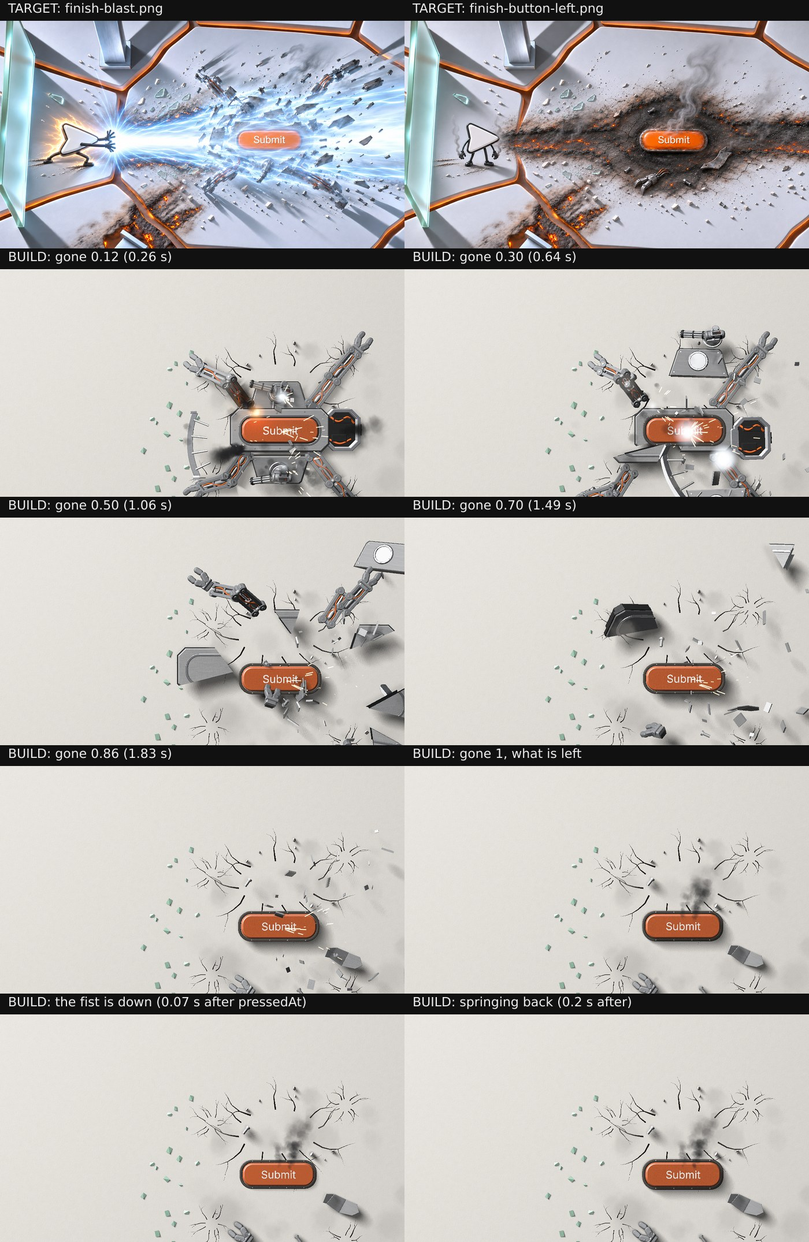
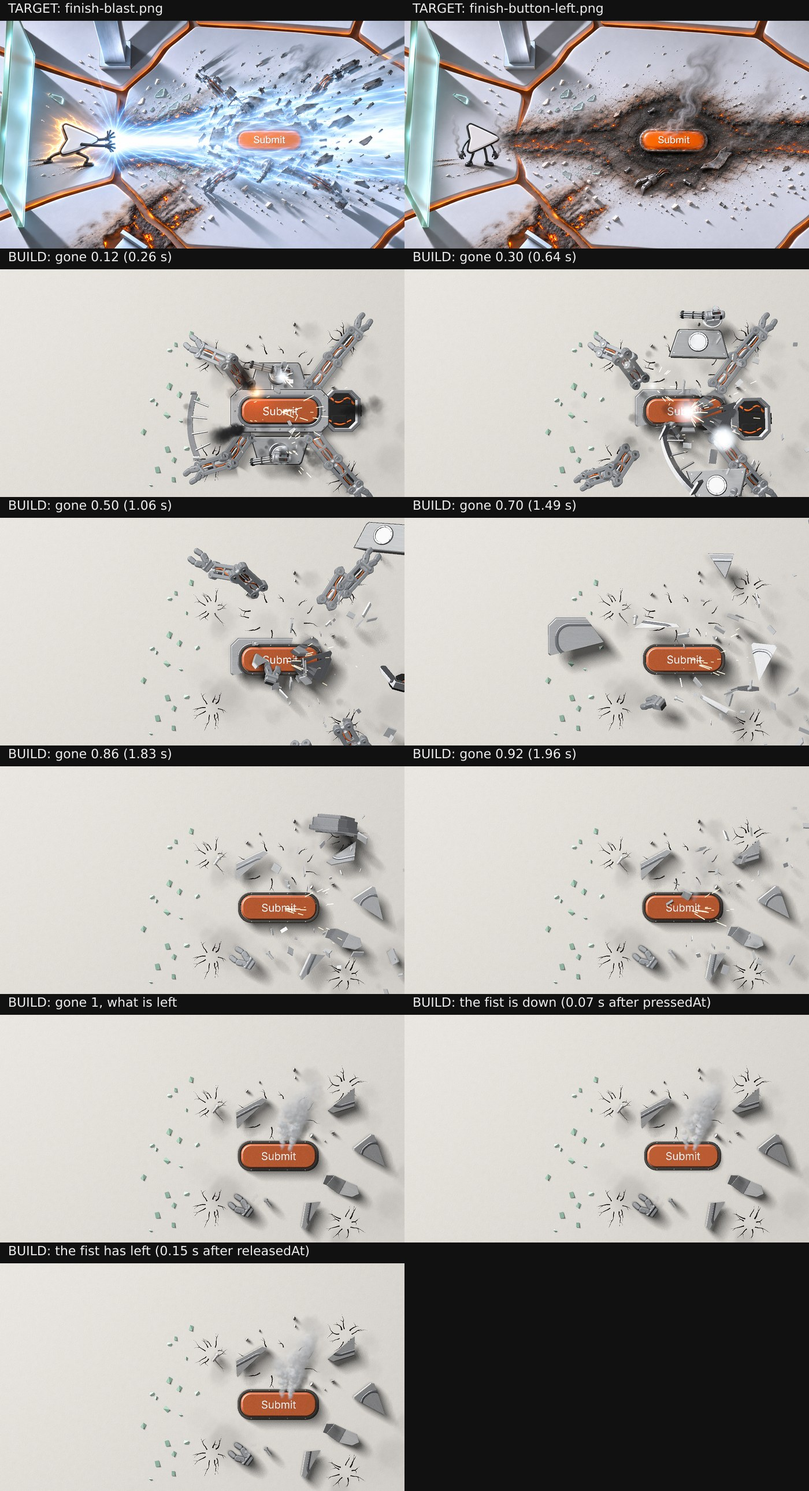
Boss look: four torn plates left round the button, pale smoke column, lit undersides in the beam, late hull pieces

diff --git a/src/boss/look1/pose.ts b/src/boss/look1/pose.ts
@@ -47,15 +47,15 @@ export const WALK = { pitch: 40, band: 0.14, lift: 38, bob: 5 }
 // The fall when he is beaten, as shares of boss.beaten: the cannon leaves, the glass bursts, the body drops on its belly.
 export const FALL = { off: [0, 0.4], glass: [0.05, 0.3], drop: [0.3, 0.7] } as const
 // The finishing blast, as shares of boss.gone: when each part leaves, when the hull comes apart, when the bare button comes down on the ground, when the last pieces land.
-export const GONE = { shield: [0.02, 0.6], wings: [[0.08, 0.7], [0.14, 0.76]], guns: [[0.05, 0.65], [0.1, 0.7]], legs: [[0.2, 0.8], [0.26, 0.86], [0.3, 0.9], [0.36, 0.96]], bay: [0.22, 0.8], hull: [0.28, 0.98], plate: [0.03, 0.5], button: [0.5, 0.9], left: [0.4, 0.92], land: [[0.44, 0.92], [0.5, 0.93], [0.56, 0.95]] } as const
+export const GONE = { shield: [0.02, 0.6], wings: [[0.08, 0.7], [0.14, 0.76]], guns: [[0.05, 0.65], [0.1, 0.7]], legs: [[0.2, 0.8], [0.26, 0.86], [0.3, 0.9], [0.36, 0.96]], bay: [0.22, 0.8], hull: [0.28, 0.98], plate: [0.06, 0.34], button: [0.5, 0.9], left: [0.4, 0.92], land: [[0.44, 0.92], [0.5, 0.93], [0.56, 0.95], [0.52, 0.94]] } as const
 // How a piece leaves in the blast, in model units: far down the beam, wide to its own side, up from the ground.
 export const FLY = { far: 2700, wide: 1100, least: 0.6, high: 120, burst: [400, 250] }
-// Where the button lies when all else is gone (the fight's FALLEN), level on the page; and what lies about it, page px from its middle: a claw, a bent plate, two bolts, and three torn pieces of the hull (which piece, where, its turn), `small` of their size.
-export const LEFT = { x: 960, y: 650, slide: [0.02, 0.92], lie: [[-76, 150, 2.5], [150, 72, -0.5], [-78, -104, 0.9], [-24, 116, 2.2]], plates: [[1, 66, -118, 0.5], [3, 214, -34, -0.9], [5, 112, 168, 1.4]], small: 0.62 } as const
+// Where the button lies when all else is gone (the fight's FALLEN), level on the page; and what lies about it, page px from its middle: a claw, a bent plate, two bolts, and four torn pieces of the hull (which piece, where, its turn), `small` of their size.
+export const LEFT = { x: 960, y: 650, slide: [0.02, 0.92], lie: [[-76, 128, 2.5], [150, 72, -0.5], [-150, -110, 0.9], [-24, 112, 2.2]], plates: [[0, -70, -108, 0.5], [3, 214, -20, -0.9], [2, 66, 142, 1.4], [4, 150, -124, 0.3]], small: 0.8 } as const
 // The fist on the button that is left: it goes down in `down` seconds and stays down while the fist is on it; when the fist leaves it springs back in `back` seconds with a small overshoot. `deep` is in model units, `squash` a share of its size.
 export const PRESS = { down: 0.07, back: 0.38, deep: 9, squash: 0.045 }
 // The floor of light his parts keep inside the beam, as a share of their own colour: a tilted plate stays light grey.
-export const BEAMLIT = 0.34
+export const BEAMLIT = 0.42
 export const WORD = { font: 'inter-400', px: 25 }
 export const BENT = { yaw: 0.26, droop: 0.2 }
 export const TIMES = { form: 2.9, turret: 1.6, beaten: 1, gone: 2.13, gunKick: 0.25, glance: 0.3, hit: 0.35, heal: 0.6, beam: 0.3, recoil: 0.45, after: 1.2, weak: 1.2 }
@@ -91,7 +91,7 @@ export interface Pose {
   away: { shield: number; wings: [number, number]; guns: [number, number]; legs: [number, number, number, number]; bay: number; hull: number; plates: number[] }
   // The pieces that stay: 0 in the body, 1 lying where they are left.
   left: number
-  // The three pieces of the hull that stay: 0 on the body, 1 lying flat where they are left. And how much of the beam's light is on his parts, 0 to 1.
+  // The four pieces of the hull that stay: 0 on the body, 1 lying flat where they are left. And how much of the beam's light is on his parts, 0 to 1.
   landed: number[]
   lit: number
   // 0 to 1: how far the button is down under the fist; a little below 0 on the spring back when the fist leaves.

diff --git a/src/boss/look1/kit.ts b/src/boss/look1/kit.ts
@@ -283,6 +283,7 @@ export interface LookKit {
   soot: THREE.MeshBasicMaterial
   ceramic: THREE.MeshPhysicalMaterial
   scorched: THREE.MeshPhysicalMaterial
+  under: THREE.MeshPhysicalMaterial
 }
 
 let look: LookKit | null = null
@@ -291,7 +292,7 @@ export function lookKit(): LookKit {
   if (look) return look
   const b = bossKit()
   const m = materials()
-  const plateLight = new THREE.MeshPhysicalMaterial({ color: srgb(0x6e7277), roughness: 0.54, metalness: 0.35, specularIntensity: 0.5 })
+  const plateLight = new THREE.MeshPhysicalMaterial({ color: srgb(0x7a7e83), roughness: 0.54, metalness: 0.35, specularIntensity: 0.5 })
   const brushed = (hex: number, metal: number, rough = 0.46): THREE.MeshPhysicalMaterial => { const c = b.plate.clone(); c.color = srgb(hex); c.metalness = metal; c.roughness = rough; return studio(c) }
   look = {
     hull: brushed(0x9c9fa3, 0.35, 0.52),
@@ -303,7 +304,7 @@ export function lookKit(): LookKit {
     gunBase: studio(new THREE.MeshPhysicalMaterial({ color: srgb(0xb4b7bb), roughness: 0.42, metalness: 0.5, specularIntensity: 0.6 })),
     plate: b.plate,
     plateLight: studio(plateLight),
-    limb: studio(new THREE.MeshPhysicalMaterial({ color: srgb(0x868a8f), roughness: 0.5, metalness: 0.55, specularIntensity: 0.6 })),
+    limb: studio(new THREE.MeshPhysicalMaterial({ color: srgb(0x8e9297), roughness: 0.5, metalness: 0.55, specularIntensity: 0.6 })),
     dark: b.plateSide,
     housing: b.housing,
     joint: b.joint,
@@ -318,7 +319,8 @@ export function lookKit(): LookKit {
     glassCrack: new THREE.MeshBasicMaterial({ color: new THREE.Color(0.86, 0.95, 0.9), transparent: true, opacity: 0.92, depthWrite: false, polygonOffset: true, polygonOffsetFactor: -2, polygonOffsetUnits: -4 }),
     soot: new THREE.MeshBasicMaterial({ color: new THREE.Color(0.012, 0.011, 0.01), transparent: true, opacity: 0.55, depthWrite: false, polygonOffset: true, polygonOffsetFactor: -2, polygonOffsetUnits: -4 }),
     ceramic: m.ceramic,
-    scorched: studio(new THREE.MeshPhysicalMaterial({ color: srgb(0x4a4744), roughness: 0.62, metalness: 0.7, specularIntensity: 0.5 }))
+    scorched: studio(new THREE.MeshPhysicalMaterial({ color: srgb(0x4a4744), roughness: 0.62, metalness: 0.7, specularIntensity: 0.5 })),
+    under: studio(new THREE.MeshPhysicalMaterial({ color: srgb(0x6a6d72), roughness: 0.6, metalness: 0.4, specularIntensity: 0.5 }))
   }
   return look
 }

diff --git a/src/boss/look1/model.ts b/src/boss/look1/model.ts
@@ -403,7 +403,7 @@ export function buildModel(): Model {
     const at: [number, number, number] = [mid[0] + Math.cos(am) * 190, mid[1] + Math.sin(am) * 120, HULL.top - HULL.tall / 2]
     const piece = (name: string, from: string): THREE.BufferGeometry => geo(`${name}${i}`, () => cutTo(shared.get(from)!, cut).translate(-at[0], -at[1], -at[2]))
     const g = new THREE.Group()
-    g.add(mesh(piece('piece', 'hull'), kit.hull), mesh(piece('piece.dark', 'hull.dark'), kit.dark), mesh(piece('piece.trim', 'hull.trim'), kit.bezel))
+    g.add(mesh(piece('piece', 'hull'), kit.hull), mesh(piece('piece.dark', 'hull.dark'), kit.under), mesh(piece('piece.trim', 'hull.trim'), kit.bezel))
     g.rotation.order = 'ZYX'
     g.visible = false
     body.add(g)

diff --git a/src/boss/look1/fx.ts b/src/boss/look1/fx.ts
@@ -580,8 +580,8 @@ export function makeFx(o: LookOptions, level0: Level): Fx {
       const rise = smooth(lin(p.gone, GONE.button[1], 1))
       const sx3 = p.x + 22
       const sy3 = p.y + 14
-      plume(sx3, sy3, 30, now, 0.07, 3.8, 41, 20, STEAM, 0.5 * rise, 9, 36)
-      plume(sx3 - 22, sy3 + 2, 30, now + 0.7, 0.11, 3.2, 42, 15, STEAM, 0.38 * rise, 5, 32)
+      plume(sx3, sy3, 30, now, 0.06, 3.8, 41, 27, STEAM, 0.62 * rise, 9, 38)
+      plume(sx3 - 18, sy3 + 2, 30, now + 0.7, 0.09, 3.4, 42, 20, STEAM, 0.48 * rise, 4, 34)
       const lie = LEFT.lie[0]
       plume(p.x + lie[0], p.y - lie[1], 20, now + 0.3, 0.2, 2, 43, 10, STEAM, 0.3 * rise, 4, 22)
     }

diff --git a/src/boss/look1/index.ts b/src/boss/look1/index.ts
@@ -237,7 +237,7 @@ export function makeBoss(ctx: BossLookContext = {}): BossLook {
   model.button.traverse((c) => { c.castShadow = true })
   object.add(figure)
   const kit = lookKit()
-  const lit = [kit.hull, kit.wing, kit.hatch, kit.bezel, kit.steel, kit.gunBody, kit.gunBase, kit.plateLight, kit.limb, kit.dark, kit.joint, kit.pin, kit.plate]
+  const lit = [kit.hull, kit.wing, kit.hatch, kit.bezel, kit.steel, kit.gunBody, kit.gunBase, kit.plateLight, kit.limb, kit.under]
   const fx: Fx = makeFx(o, ctx.level ?? null)
   object.add(fx.object)
   const pose = (view: BossView, _dt: number, light?: (e: Emitter) => void): void => {
